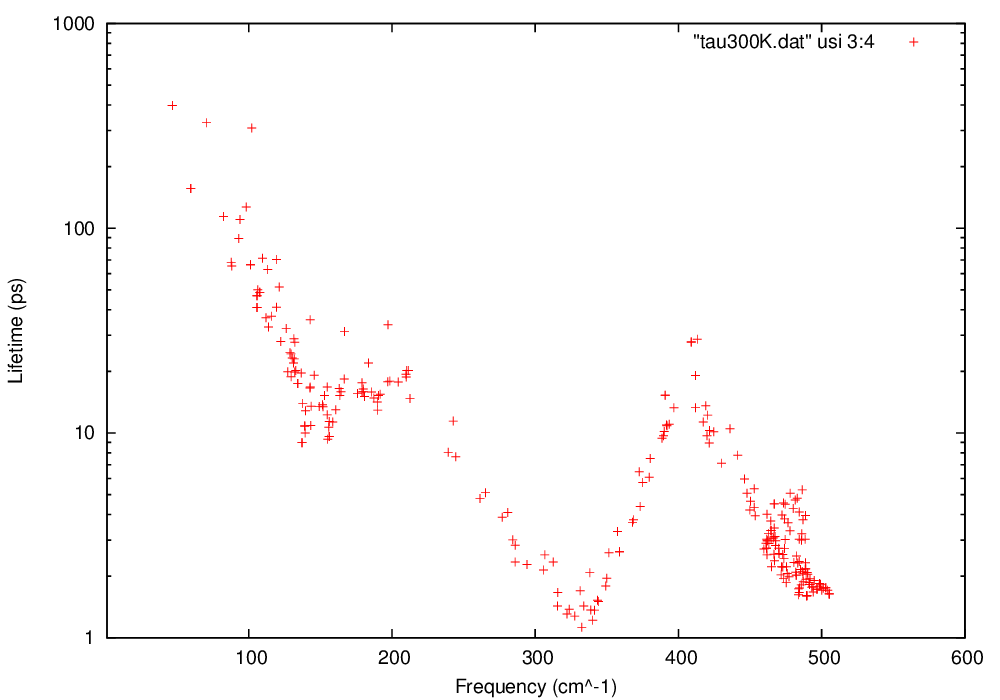
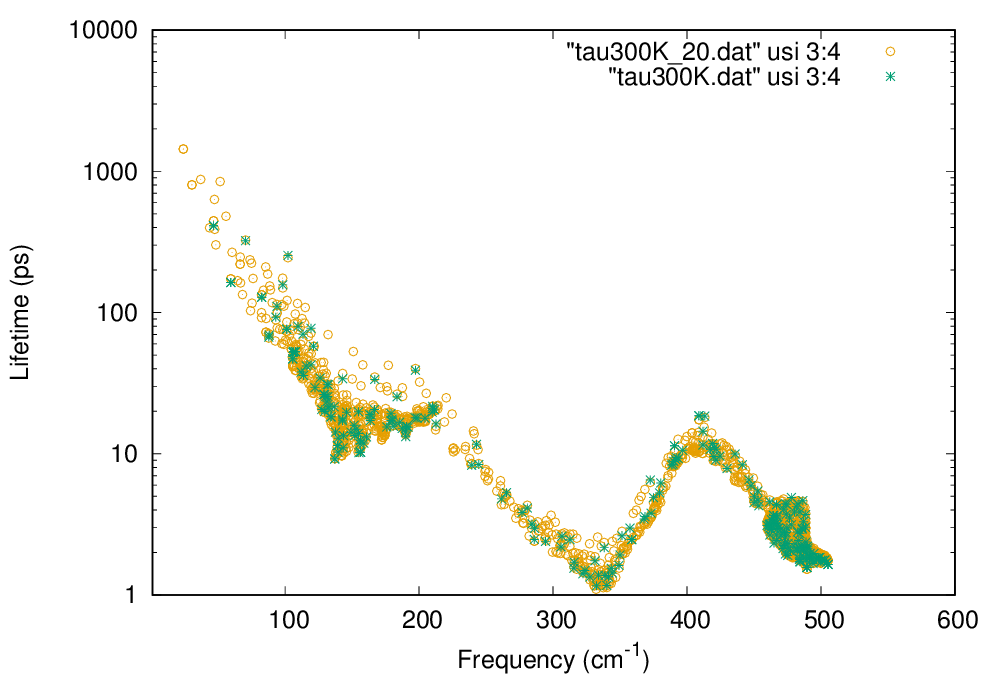
Added description to the tutorial of Si.

diff --git a/docs/source/tutorial.rst b/docs/source/tutorial.rst
@@ -32,6 +32,7 @@ In the following, (anharmonic) phonon properties of bulk silicon (Si) are calcul
 #. :ref:`Calculate phonon dispersion and phonon DOS <tutorial_Si_step4>`
 #. :ref:`Estimate anharmonic IFCs for thermal conductivity <tutorial_Si_step5>`
 #. :ref:`Calculate thermal conductivity <tutorial_Si_step6>`
+#. :ref:`Analyze results <tutorial_Si_step7>`
 
 
 .. _tutorial_Si_step1:
@@ -371,38 +372,148 @@ Then, execute **anphon** as a background job
     $ anphon si_RTA.in > si_RTA.log &
 
 Please be patient. This can take a while. 
-When the job finishes, you can find a file :red:`si222.kl` in which the lattice thermal conductivity is printed.
+When the job finishes, you can find a file :red:`si222.kl` in which the lattice thermal conductivity is saved.
+You can plot this file using gnuplot (or any other plotting softwares) as follows::
+
+    $ gnuplot
+    gnuplot> set logscale xy
+    gnuplot> set xlabel "Temperature (K)"
+    gnuplot> set ylabel "Lattice thermal conductivity (W/mK)"
+    gnuplot> plot "si222.kl" usi 1:2 w lp
+
+.. figure:: ../img/si_kappa.png
+   :scale: 40%
+   :align: center
+
+   Calculated lattice thermal conductivity of Si (click to enlarge)
+
+As you can see, the thermal conductivity diverges in :math:`T\rightarrow 0` limit. 
+This occurs because we only considered intrinsic phonon-phonon scatterings in the present calculation and
+neglected phonon-boundary scatterings which are dominant in the low temperature range.
+The effect of the boundary scattering can be included using the python script ``analyze_phonons.py`` in the tools directory::
+
+    $ analyze_phonons.py --calc kappa_boundary --size 1.0e+6 si222.result > si222_boundary_1mm.kl
+
+In this script, the phonon lifetimes are altered using the Matthiessen's rule
+
+.. math::
+
+  \frac{1}{\tau_{q}^{total}} = \frac{1}{\tau_{q}^{p-p}} + \frac{2|\boldsymbol{v}_{q}|}{L}.
+
+Here, the first term on the right-hand side of the equation is the scattering rate due to 
+the phonon-phonon scattering and the second term is the scattering rate due to a grain boundary of size :math:`L`.
+The size :math:`L` must be specified using the ``--size`` option in units of nm. The result is also shown in the
+above figure and the divergence is cured with the boundary effect.
+
+.. Note::
+    When a calculation is performed with a smearing method (``ISMEAR=0 or 1``) instead of the
+    tetrahedron method (``ISMEAR=-1``), the thermal conductivity may have a peak structure in the very low temperature region even without the boundary effect. This peak occurs because of the finite smearing width :math:`\epsilon` used in the smearing methods. As we descrease the :math:`\epsilon` value, the peak value of :math:`\kappa` should disapper. In addition, a very dense :math:`q` grid is necessary for describing phonon excitations and thermal transport in the low temperature region (regardless of the ``ISMEAR`` value).
+
+
+.. _tutorial_Si_step7:
+
+7. Analyze results
+~~~~~~~~~~~~~~~~~~
+
+There are many ways to analyze the result for better understandings of nanoscale thermal transport.
+Some selected features are introduced below:
+
+Phonon lifetime
+^^^^^^^^^^^^^^^
 
 The file :red:`si222.result` contains phonon linewidths at irreducible :math:`k` points. 
-You can extract phonon lifetime from this file as::
+You can extract phonon lifetime from this file as follows::
 
     $ analyze_phonons.py --calc tau --temp 300 si222.result > tau300K.dat
     $ gnuplot
     gnuplot> set xrange [1:]
     gnuplot> set logscale y
+    gnuplot> set xlabel "Phonon frequency (cm^{-1})"
+    gnuplot> set ylabel "Phonon lifetime (ps)"
     gnuplot> plot "tau300K.dat" using 3:4 w p
 
 .. figure:: ../img/si_tau.png
    :scale: 40%
    :align: center
 
-   Phonon lifetime of Si at 300 K
+   Phonon lifetime of Si at 300 K (click to enlarge)
 
-You can also estimate the cumulative thermal conductivity by
-::
+In the above figure, phonon lifetimes calculated with :math:`20\times 20\times 20\ q` points are also shown by open circles. 
 
-    $ analyze_phonons.py --calc cumulative --temp 300 --length 10000:5 > cumulative_300K.dat
+
+Cumulative thermal conductivity
+^^^^^^^^^^^^^^^^^^^^^^^^^^^^^^^
+
+Following the procedure below, you can obtain the cumulative thermal conductivity::
+
+    $ analyze_phonons.py --calc cumulative --temp 300 --length 10000:5 si222.result > cumulative_300K.dat
     $ gnuplot
     gnuplot> set logscale x
+    gnuplot> set xlabel "L (nm)"
+    gnuplot> set ylabel "Cumulative kappa (W/mK)"
     gnuplot> plot "cumulative_300K.dat" using 1:2 w lp
 
 .. figure:: ../img/si_cumulative.png
    :scale: 40%
    :align: center
 
-   Cumulative thermal conductivity of Si at 300 K
+   Cumulative thermal conductivity of Si at 300 K (click to enlarge)
 
-The script :red:`analyze_phonons.py` can be found in the tools/ directory.
-To use the script, compile the C++ code :red:`analyze_phonons.cpp` in the same directory and rename *a.out* to *analyze_phonons* (or edit the Makefile and type make).
+To draw a smooth line, you will have to use a denser :math:`q` grid as shown in the figure by the orange line,
+which are obtained with :math:`20\times 20\times 20\ q` points.
 
+Thermal conductivity spectrum
+^^^^^^^^^^^^^^^^^^^^^^^^^^^^^
+
+To calculate the spectrum of thermal conductivity, modify the :red:`si_RTA.in` as follows::
+
+    &general
+      PREFIX = si222
+      MODE = RTA
+      FCSXML = si222_cubic.xml
+
+      NKD = 1; KD = Si
+      MASS = 28.0855
+  
+      EMIN = 0; EMAX = 550; DELTA_E = 1.0 # <-- frequency range
+    /
+
+    &cell
+    10.203
+     0.0 0.5 0.5
+     0.5 0.0 0.5
+     0.5 0.5 0.0
+    /
+
+    &kpoint
+     2
+     10 10 10
+    /
+
+    &analysis
+     KAPPA_SPEC = 1 # compute spectrum of kappa
+    /
+
+The frequency range is specified with the ``EMIN``, ``EMAX``, and ``DELTA_E`` tags, and the ``KAPPA_SPEC = 1`` is set in the ``&analysis`` field. Then, execute anphon again
+::
+
+    $ anphon si_RTA.in > si_RTA2.log 
+
+After the calculation finishes, you can find the file :red:`si222.kl_spec` which contains the spectra of thermal conductivity at various temperatures. You can plot the data at room temperature as follows::
+    
+    $ awk '{if ($1 == 300.0) print $0}' si222.kl_spec > si222_300K.kl_spec
+    $ gnuplot
+    gnuplot> set xlabel "Frequency (cm^{-1})"
+    gnuplot> set ylabel "Spectrum of kappa (W/mK/cm^{-1})"
+    gnuplot> plot "si222_300K.kl_spec" using 2:3 w l lt 2 lw 2
+
+.. figure:: ../img/si_kappa_spec.png
+   :scale: 40%
+   :align: center
+
+   Spectrum of thermal conductivity of Si at 300 K (click to enlarge)
+
+
+In the above figure, a computational result with :math:`20\times 20\times 20\ q` points is also shown by dashed line. 
+From the figure, we can see that low energy phonons below 200 cm\ :math:`^{-1}` account for more than 80% of the total thermal conductivity at 300 K.
 

diff --git a/docs/source/formalism/formalism_anphon.rst b/docs/source/formalism/formalism_anphon.rst
@@ -379,7 +379,7 @@ since it may depend on the phonon structure and the density of :math:`\boldsymbo
 To avoid such issues, the program *anphon* employs the tetrahedron method [5]_ by default (``ISMEAR = -1``)
 for numerical evaluations of Brillouin zone integration containing :math:`\delta(\omega)`.
 When the tetrahedron method is used, the ``EPSILON``-tag is neglected.
-We recommend using the tetrahedron method whenever possible, even though it may slightly increase the computational cost.
+We recommend using the tetrahedron method whenever possible.
 
 ````
 
